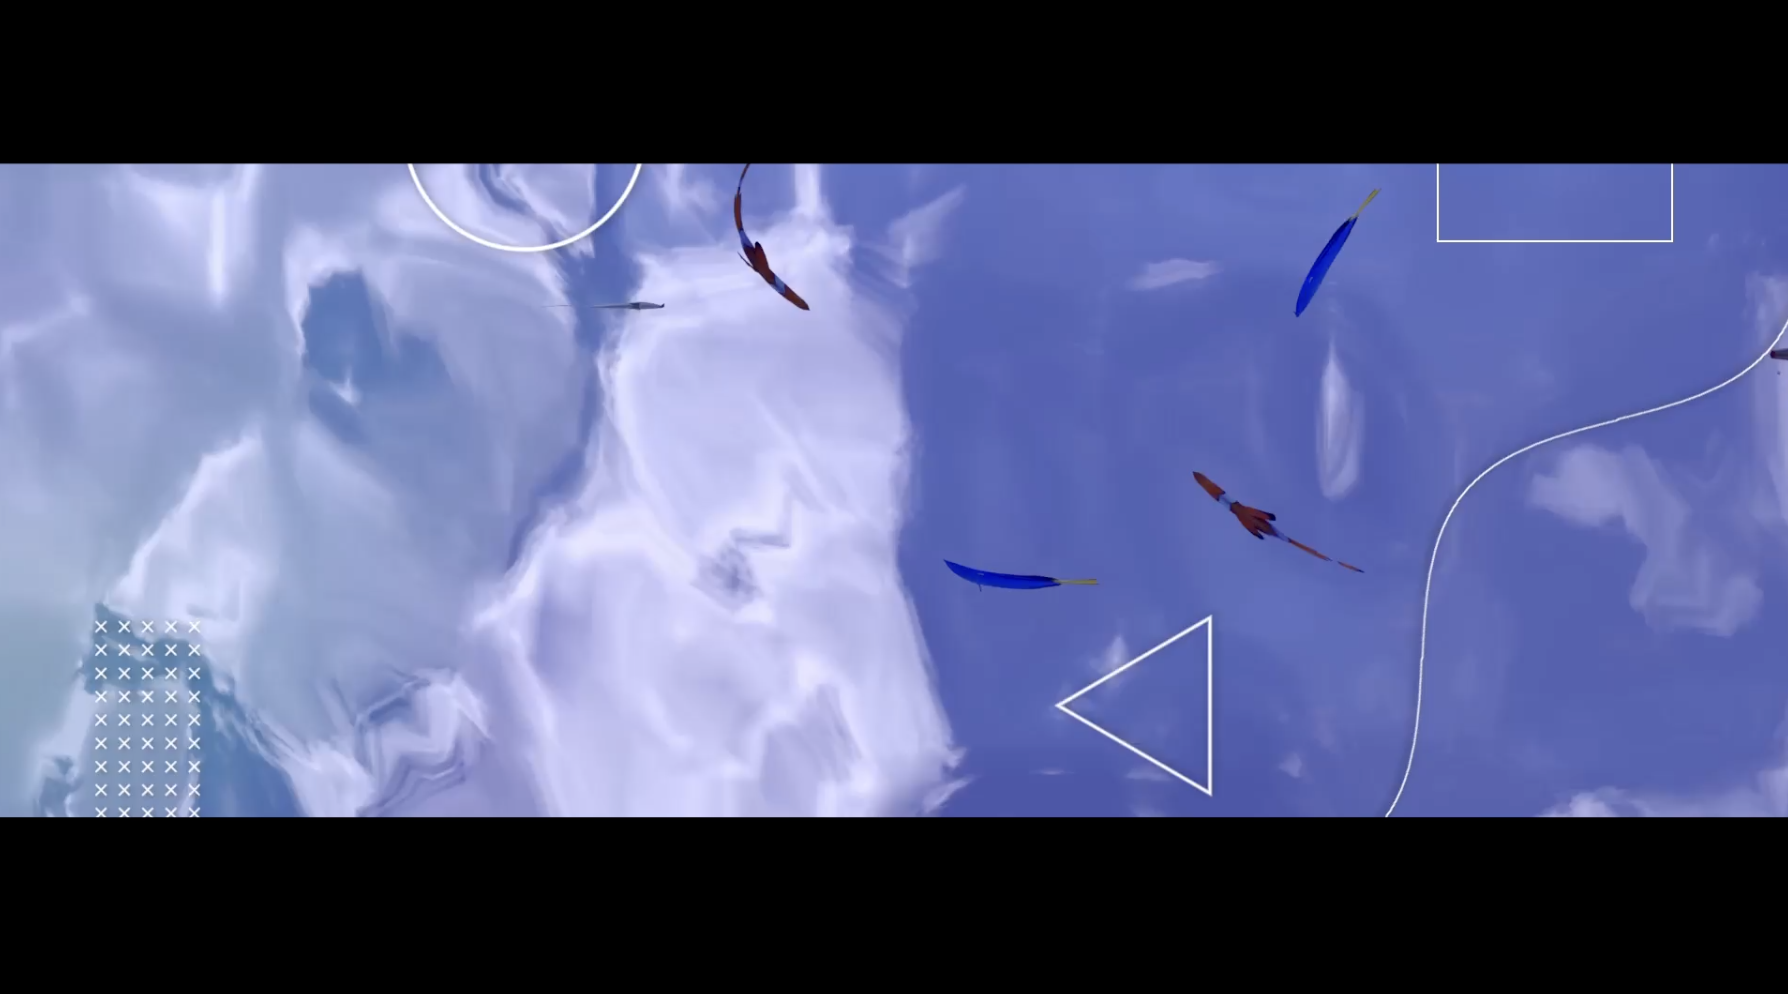
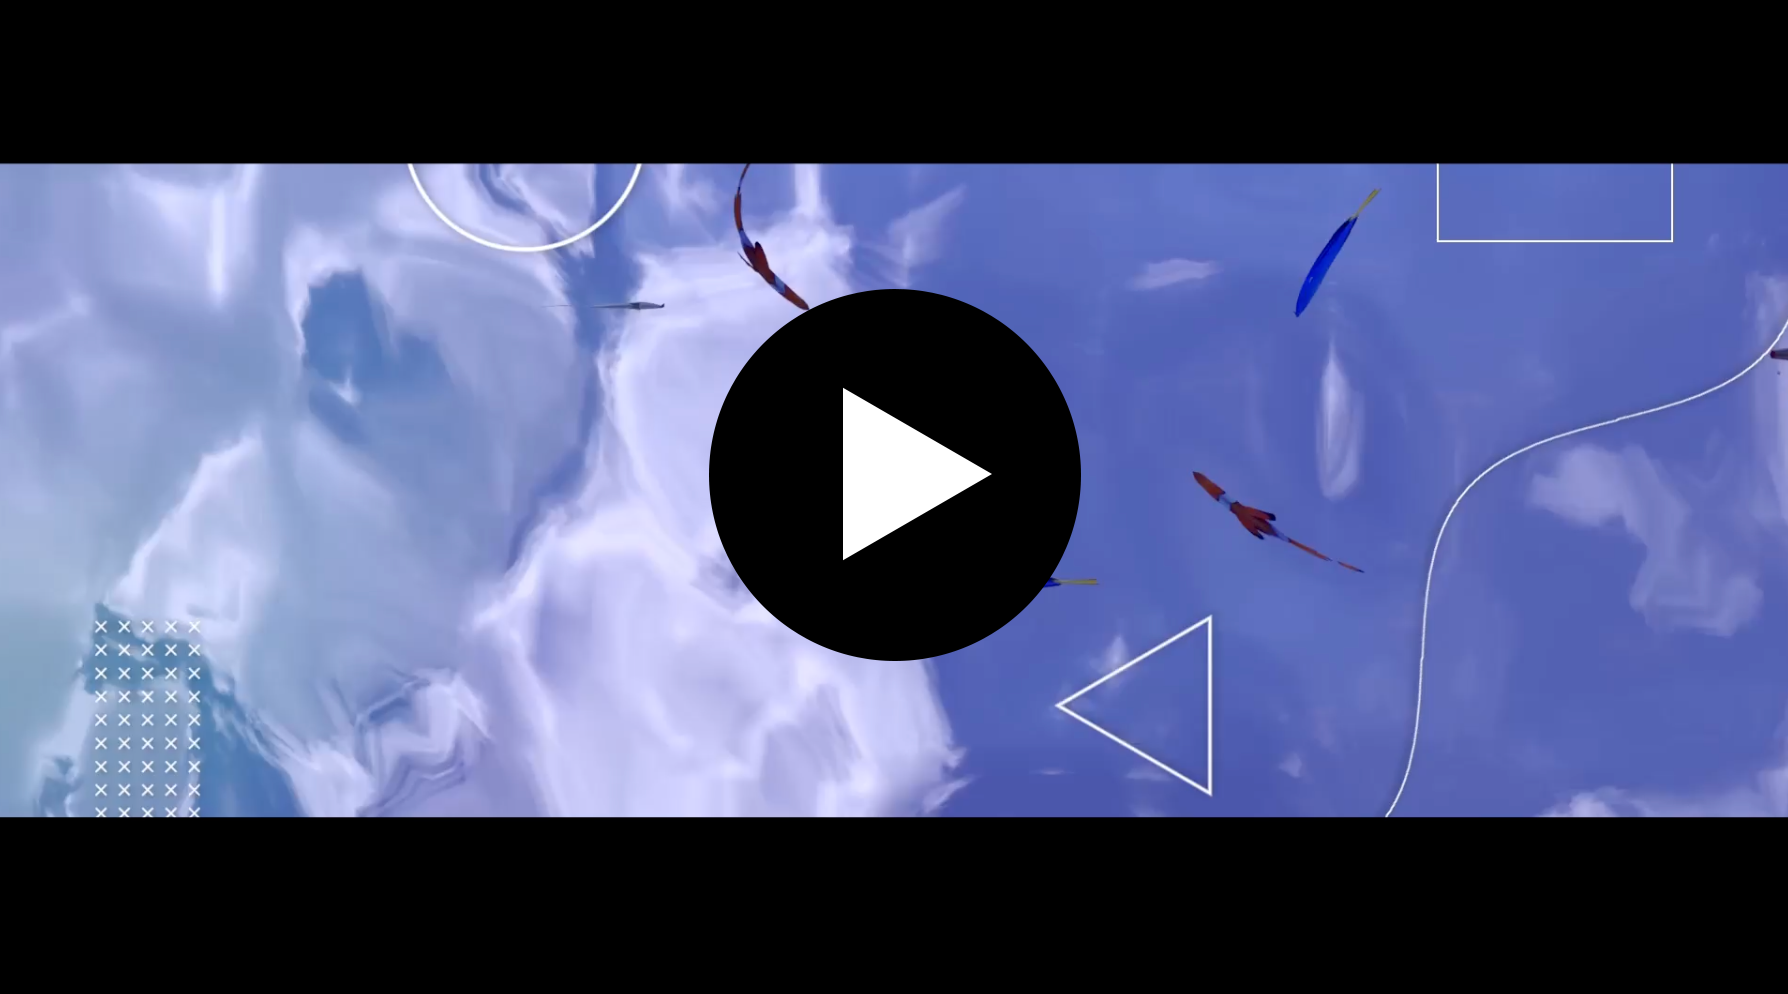
Safari対応サムネイル修正

Changed region(s): [[0.3691, 0.2807, 0.6152, 0.6861]]

diff --git a/script.js b/script.js
@@ -16,7 +16,11 @@ window.addEventListener('load', function() {
     } else if (agent.indexOf("safari") != -1) {
         console.log("ブラウザはsafariです。")
         coverElement.style.backgroundColor = 'white';
-        coverElement.style.background = 'linear-gradient(to bottom, rgba(255, 255, 255, 0.8), rgba(255, 255, 255, 0.8))'
+        coverElement.style.background = 'linear-gradient(to bottom, rgba(255, 255, 255, 0.8), rgba(255, 255, 255, 0.8))';
+        const imgElement1 = document.querySelector('.videoContents .videoContentsMain2 img');
+        imgElement1.style.opacity = '100%';
+        const imgElement2 = document.querySelector('.videoContents .videoContentsMain1 img');
+        imgElement2.style.opacity = '100%';
     }
 });
 

diff --git a/styleSkill03.css b/styleSkill03.css
@@ -86,16 +86,17 @@ section{
     top: 0%;
     left: 0%;
     z-index: -1;
+    opacity: 0;
 }
 
 .videoContents .videoContentsMain2 img{
     width: 100%;
     position: absolute;
     bottom: 0%;
-    left: 0%;
+    left: 0px;
     z-index: -1;
+    opacity: 0;
 }
-
 
 .title{
     margin-top: 50px;
